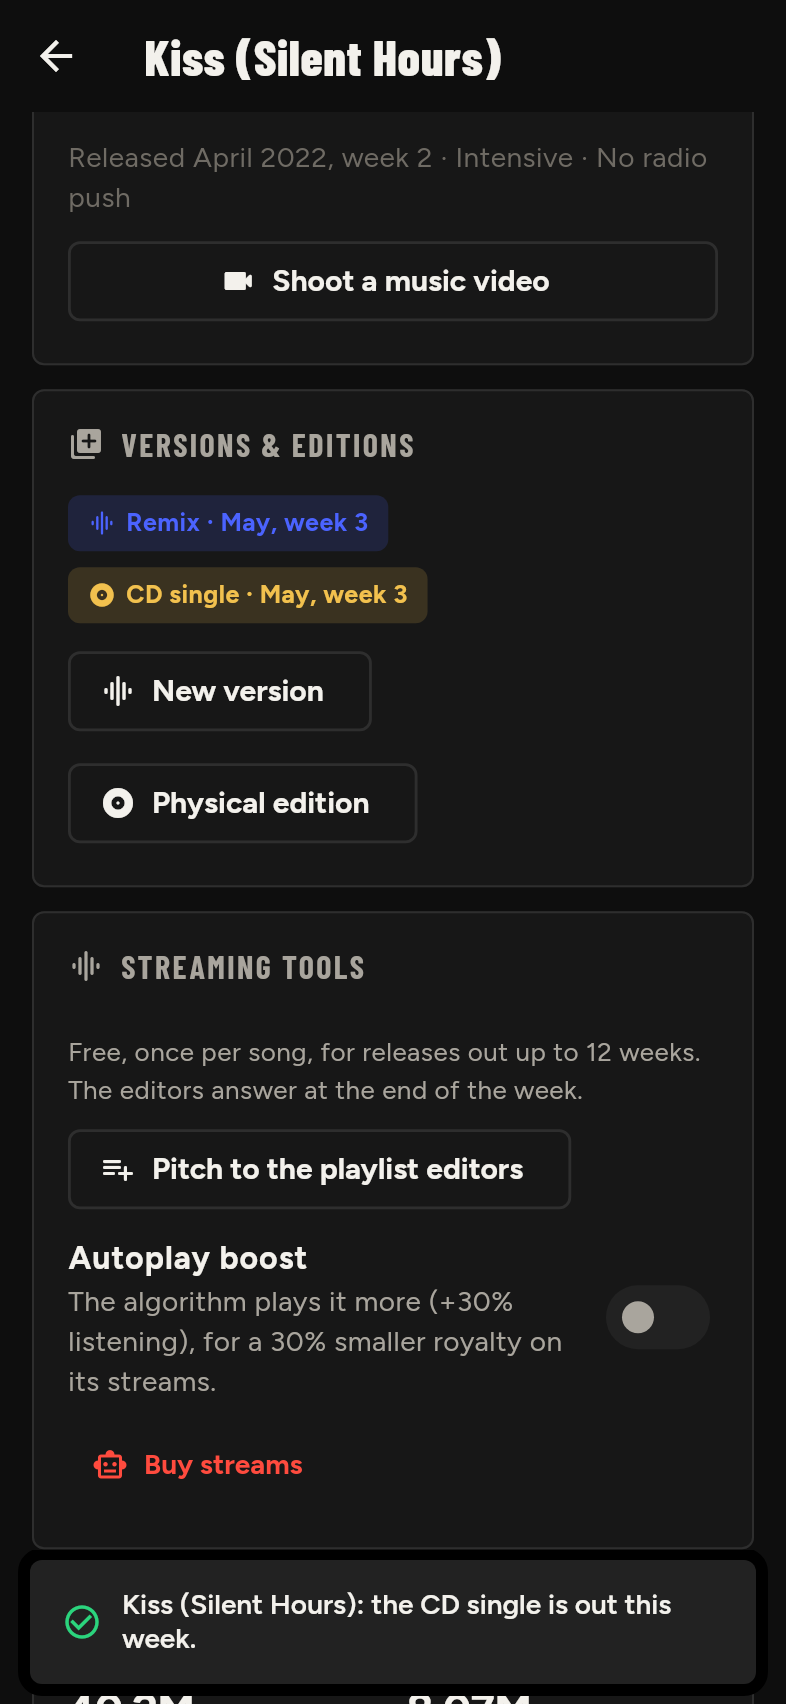
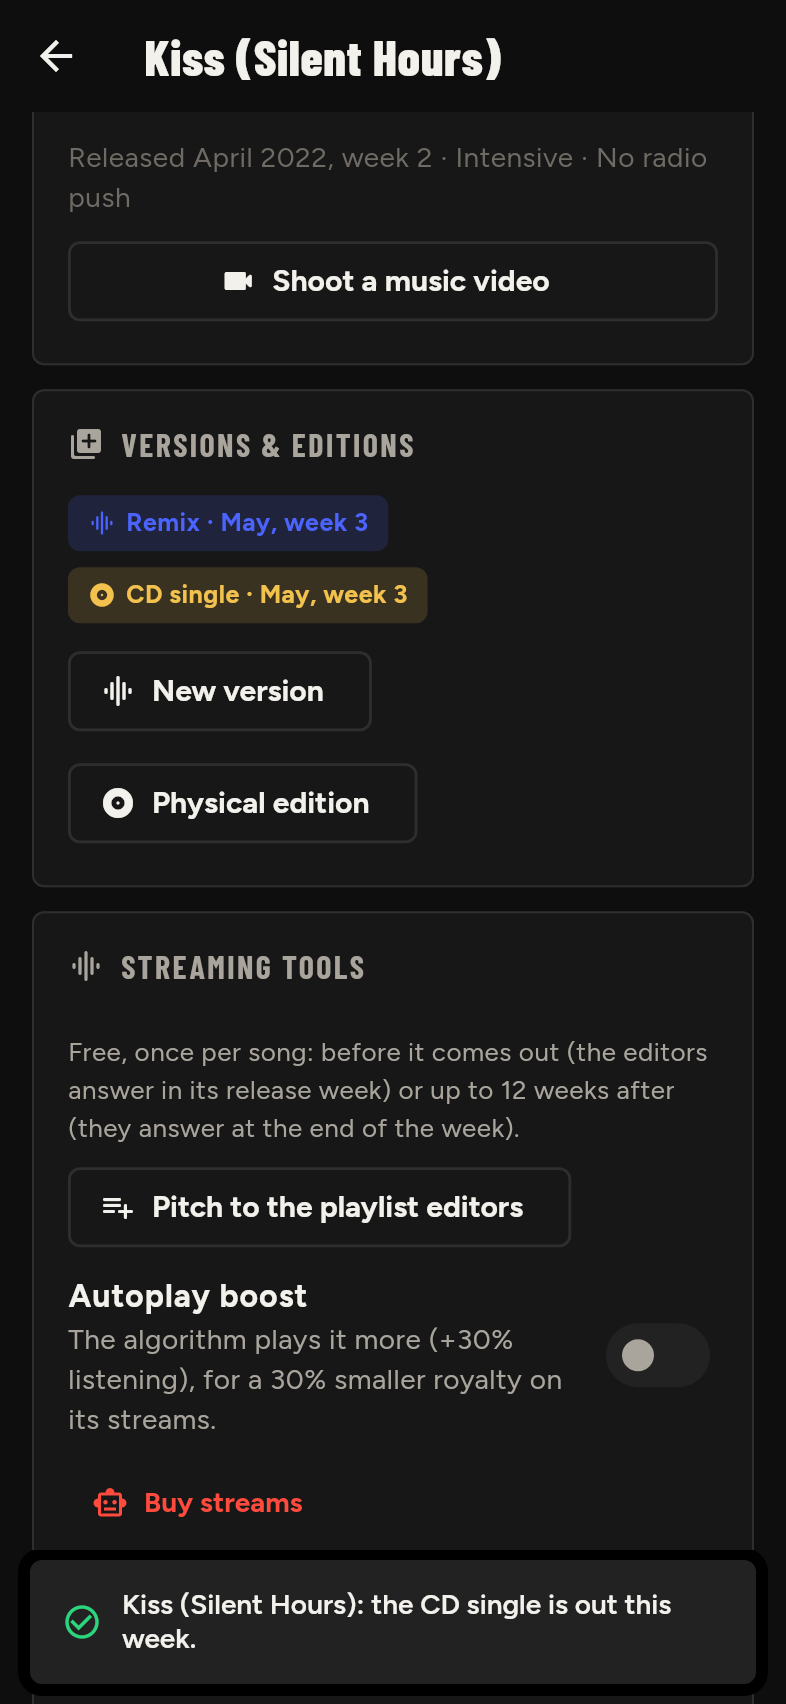
Every main-chart entry is big news; pitch and autoplay before release, also from the single release flow (K101, F67, F68)
Claude-Session: https://claude.ai/code/session_01UqeaYiXbKvrTFgHV44HcjP

diff --git a/app/lib/screens/releases_tab.dart b/app/lib/screens/releases_tab.dart
@@ -474,7 +474,18 @@ Future<bool> releaseSingleFlow(
   final radio = await pickRadioPush(context, career,
       extraCents: career.player.campaignCosts[campaign.index]);
   if (radio == null || !context.mounted) return false;
+  // Playlist pitch and autoplay before it comes out (docs K101).
+  var pitch = false, autoplay = song.autoplay;
+  if (song.canPitch || song.autoplayOpen) {
+    final picked = await pickStreamingOptions(context, song);
+    if (picked == null || !context.mounted) return false;
+    (pitch, autoplay) = picked;
+  }
   try {
+    if (pitch) await career.act(Cmd.pitchSong(song.id));
+    if (autoplay != song.autoplay) {
+      await career.act(Cmd.setAutoplay(song.id, autoplay));
+    }
     if (when.releaseWeek == career.week) {
       await career.act(Cmd.releaseSingle(song.id, campaign, radio));
       if (context.mounted) showInfo(context, l.singleReleased(song.title));
@@ -491,6 +502,59 @@ Future<bool> releaseSingleFlow(
     if (context.mounted) showError(context, e);
     return false;
   }
+}
+
+/// Pitch to the playlist editors and autoplay, chosen while putting a song
+/// out (docs K101). Null when cancelled.
+Future<(bool, bool)?> pickStreamingOptions(
+    BuildContext context, SongView song) {
+  final l = context.l10n;
+  var pitch = song.canPitch, autoplay = song.autoplay || song.autoplayOpen;
+  return showModalBottomSheet<(bool, bool)>(
+    context: context,
+    showDragHandle: true,
+    isScrollControlled: true,
+    builder: (c) => StatefulBuilder(
+      builder: (c, set) => SafeArea(
+        child: Padding(
+          padding: const EdgeInsets.fromLTRB(16, 0, 16, 12),
+          child: Column(
+              mainAxisSize: MainAxisSize.min,
+              crossAxisAlignment: CrossAxisAlignment.stretch,
+              children: [
+                Text(l.streamingSection,
+                    style: Theme.of(c).textTheme.titleLarge),
+                const SizedBox(height: 4),
+                Text(l.streamingStepHint,
+                    style: Theme.of(c).textTheme.bodySmall),
+                if (song.canPitch)
+                  SwitchListTile(
+                    contentPadding: EdgeInsets.zero,
+                    value: pitch,
+                    onChanged: (v) => set(() => pitch = v),
+                    title: Text(l.pitchSong,
+                        style: const TextStyle(fontWeight: FontWeight.w700)),
+                    subtitle: Text(l.pitchHint),
+                  ),
+                if (song.autoplayOpen)
+                  SwitchListTile(
+                    contentPadding: EdgeInsets.zero,
+                    value: autoplay,
+                    onChanged: (v) => set(() => autoplay = v),
+                    title: Text(l.autoplayLabel,
+                        style: const TextStyle(fontWeight: FontWeight.w700)),
+                    subtitle: Text(l.autoplayHint),
+                  ),
+                const SizedBox(height: 8),
+                FilledButton(
+                  onPressed: () => Navigator.pop(c, (pitch, autoplay)),
+                  child: Text(l.continueLabel),
+                ),
+              ]),
+        ),
+      ),
+    ),
+  );
 }
 
 /// Campaign choice with prices (docs/game-design.md §9).

diff --git a/packages/simulation_core/lib/src/streaming_tools.dart b/packages/simulation_core/lib/src/streaming_tools.dart
@@ -71,8 +71,8 @@ abstract final class StreamingTools {
     final year = GameTime.yearOf(w.week);
     // Platforms are good at this (docs K95, F65): a quarter of the weeks
     // even for a few bot streams on a hit, near certain for a fake hit.
-    final chance = math.min(
-        0.95, (0.25 + 0.6 * share) * (year >= 2020 ? 1.3 : 1.0));
+    final chance =
+        math.min(0.95, (0.25 + 0.6 * share) * (year >= 2020 ? 1.3 : 1.0));
     final r = RandomStream.keyed(w.seed, w.week, s.id, RngPurpose.bots);
     if (!r.chance(chance)) return false;
     _caught(w, s);
@@ -115,10 +115,11 @@ abstract final class StreamingTools {
 
   static bool autoplayOpen(World w) => GameTime.yearOf(w.week) >= autoplayYear;
 
-  /// Puts [s] in (or takes it out of) the autoplay programme.
+  /// Puts [s] in (or takes it out of) the autoplay programme; an
+  /// unreleased song starts in it on release (docs K101).
   static void setAutoplay(World w, Song s, bool on) {
     if (on && !autoplayOpen(w)) throw ActionException('No autoplay yet');
-    if (s.releasedWeek < 0) throw ActionException('Not released');
+    if (s.status == SongStatus.scrapped) throw ActionException('Scrapped');
     s.autoplay = on;
     if (on && s.status == SongStatus.dormant) Lifecycle.reactivateSong(w, s);
     w.dirtySongs.add(s.id);
@@ -126,15 +127,24 @@ abstract final class StreamingTools {
 
   // ----------------------------------------------------------------- pitch
 
-  /// Whether [s] can still be pitched.
+  /// Whether [s] can still be pitched: unreleased (the usual way, docs
+  /// K101) or out for up to [pitchWindowWeeks].
   static bool canPitch(World w, Song s) =>
       streamingOpen(w) &&
-      s.releasedWeek >= 0 &&
+      s.status != SongStatus.scrapped &&
       s.pitchWeek < 0 &&
       s.playlistBoost < 0.05 &&
-      w.week - math.max(s.releasedWeek, s.singleWeek) <= pitchWindowWeeks;
+      (s.releasedWeek < 0 ||
+          w.week - math.max(s.releasedWeek, s.singleWeek) <= pitchWindowWeeks);
 
-  /// Pitches [s] to the editors; they answer at the end of the week.
+  /// The week the editors answer [s]'s pitch: the pitch week, or the
+  /// release week for a song pitched before it came out (-1: not yet).
+  static int pitchAnswerWeek(Song s) => s.pitchWeek < 0 || s.releasedWeek < 0
+      ? -1
+      : math.max(s.pitchWeek, s.releasedWeek);
+
+  /// Pitches [s] to the editors; they answer at the end of the week (or
+  /// the week it comes out).
   static void pitch(World w, Song s) {
     if (!canPitch(w, s)) throw ActionException('Cannot pitch');
     s.pitchWeek = w.week;
@@ -160,7 +170,9 @@ abstract final class StreamingTools {
     if (p == null) return;
     for (final id in w.playerSongIds) {
       final s = w.songs[id];
-      if (s.pitchWeek != w.week) continue;
+      if (pitchAnswerWeek(s) != w.week) continue;
+      // The campaign already landed it on a list this week.
+      if (s.playlistWeek == w.week) continue;
       final r = RandomStream.keyed(w.seed, w.week, s.id, RngPurpose.pitch);
       if (!r.chance(pitchChance(w, s))) continue;
       final big = r.chance(0.15 + 0.35 * s.quality / 100);

diff --git a/app/lib/screens/song_detail_screen.dart b/app/lib/screens/song_detail_screen.dart
@@ -454,7 +454,7 @@ class _SongDetailScreenState extends State<SongDetailScreen> {
             ),
           ],
           if (s.isPlayer &&
-              s.releasedWeek >= 0 &&
+              (s.releasedWeek >= 0 || s.inVault) &&
               (s.streamingOpen || s.autoplayOpen)) ...[
             const SizedBox(height: 12),
             Section(
@@ -481,8 +481,14 @@ class _SongDetailScreenState extends State<SongDetailScreen> {
                         Tag(l.pitchLandedTag,
                             icon: Icons.playlist_add_check_rounded,
                             color: AppColors.mint)
-                      else if (s.pitchWeek >= widget.state.week)
-                        Tag(l.pitchPending, icon: Icons.schedule_rounded)
+                      else if (s.pitchWeek >= 0 &&
+                          (s.pitchAnswerWeek < 0 ||
+                              s.pitchAnswerWeek >= widget.state.week))
+                        Tag(
+                            s.pitchAnswerWeek < 0
+                                ? l.pitchPendingRelease
+                                : l.pitchPending,
+                            icon: Icons.schedule_rounded)
                       else if (s.pitchWeek >= 0)
                         Tag(l.pitchDeclinedTag,
                             icon: Icons.playlist_remove_rounded),
@@ -513,6 +519,7 @@ class _SongDetailScreenState extends State<SongDetailScreen> {
                         subtitle: Text(l.autoplayHint),
                       ),
                     if (s.streamingOpen &&
+                        s.releasedWeek >= 0 &&
                         s.botStatus != BotStatus.caught &&
                         s.botWeeksLeft == 0)
                       Align(

diff --git a/app/test/app_flow_test.dart b/app/test/app_flow_test.dart
@@ -62,6 +62,11 @@ void main() {
     expect(_ci('Radio push'), findsWidgets);
     await tester.tap(_ci('No radio push'));
     await tester.pumpAndSettle();
+    // Then pitch and autoplay, in the streaming era (K101).
+    if (_ci('Streaming tools').evaluate().isNotEmpty) {
+      await tester.tap(_ci('Continue').last);
+      await tester.pumpAndSettle();
+    }
     expect(find.textContaining('is out!'), findsOneWidget);
 
     await tester.tap(_ci('Charts'));
@@ -219,6 +224,11 @@ void main() {
     await tester.pumpAndSettle();
     await tester.tap(_ci('No radio push'));
     await tester.pumpAndSettle();
+    // Then pitch and autoplay, in the streaming era (K101).
+    if (_ci('Streaming tools').evaluate().isNotEmpty) {
+      await tester.tap(_ci('Continue').last);
+      await tester.pumpAndSettle();
+    }
     // The single's tile in Releases shows the uploaded cover.
     expect(find.byType(Image), findsWidgets);
 
@@ -294,6 +304,11 @@ void main() {
     await tester.pumpAndSettle();
     await tester.tap(_ci('No radio push'));
     await tester.pumpAndSettle();
+    // Then pitch and autoplay, in the streaming era (K101).
+    if (_ci('Streaming tools').evaluate().isNotEmpty) {
+      await tester.tap(_ci('Continue').last);
+      await tester.pumpAndSettle();
+    }
     expect(
         find.textContaining('is set for January 2024, week 5'), findsOneWidget);
     expect(_ci('Coming up'), findsOneWidget);

diff --git a/packages/game/test/game_test.dart b/packages/game/test/game_test.dart
@@ -366,14 +366,18 @@ void main() {
               premium: true,
               tier: StartTier.risingStar,
               money: StartMoney.millionaire));
+      // Pitched and in autoplay before it comes out (docs K101).
       final song = g.writeSong(budget: BudgetTier.high);
-      expect(() => g.pitchSong(song.id), _code('cannotPitch'));
-      g.releaseSingle(song.id);
       expect(g.song(song.id).canPitch, isTrue);
       g.pitchSong(song.id);
       expect(g.song(song.id).canPitch, isFalse);
+      expect(() => g.pitchSong(song.id), _code('cannotPitch'));
       g.setAutoplay(song.id, true);
       expect(g.song(song.id).autoplay, isTrue);
+      expect(g.song(song.id).pitchAnswerWeek, -1);
+      g.advanceWeek();
+      g.releaseSingle(song.id);
+      expect(g.song(song.id).pitchAnswerWeek, g.week);
       final events = g.advanceWeek().events;
       expect(
           events.any((e) =>

diff --git a/packages/game/lib/src/views.dart b/packages/game/lib/src/views.dart
@@ -289,7 +289,9 @@ class SongView {
         autoplay = s.autoplay,
         canPitch = StreamingTools.canPitch(w, s),
         pitchWeek = s.pitchWeek,
-        pitchLanded = s.pitchWeek >= 0 && s.playlistWeek == s.pitchWeek,
+        pitchAnswerWeek = StreamingTools.pitchAnswerWeek(s),
+        pitchLanded = StreamingTools.pitchAnswerWeek(s) >= 0 &&
+            s.playlistWeek == StreamingTools.pitchAnswerWeek(s),
         streamingOpen = StreamingTools.streamingOpen(w),
         autoplayOpen = StreamingTools.autoplayOpen(w),
         variants = List.unmodifiable(s.variants),
@@ -337,6 +339,9 @@ class SongView {
   /// Pitch to the playlist editors (docs K97).
   final bool canPitch;
   final int pitchWeek;
+
+  /// Week the editors answer (-1 while the song is unreleased).
+  final int pitchAnswerWeek;
   final bool pitchLanded;
 
   /// The streaming platform and its autoplay exist this year.

diff --git a/packages/game/lib/src/game_session.dart b/packages/game/lib/src/game_session.dart
@@ -1238,9 +1238,6 @@ class GameSession {
     if (on && !StreamingTools.autoplayOpen(world)) {
       throw GameException('noStreaming', 'No autoplay yet');
     }
-    if (s.releasedWeek < 0) {
-      throw GameException('notReleased', 'Only released songs');
-    }
     StreamingTools.setAutoplay(world, s, on);
     _saveNow();
   }
@@ -1776,7 +1773,8 @@ class GameSession {
     }
     for (final id in w.playerSongIds) {
       final s = w.songs[id];
-      if (s.pitchWeek == r.week && s.playlistWeek != r.week) {
+      if (StreamingTools.pitchAnswerWeek(s) == r.week &&
+          s.playlistWeek != r.week) {
         events.add(PitchDeclined(id));
       }
     }

diff --git a/packages/game/lib/src/events.dart b/packages/game/lib/src/events.dart
@@ -26,8 +26,11 @@ class ChartDebut extends GameEvent {
   final EntityKind kind;
   final int entityId;
   final int position;
+
+  /// Every entry on a main chart is news the player hears about (F67: a
+  /// #45 debut on the global chart went by unnoticed).
   @override
-  bool get isMajor => position <= 10;
+  bool get isMajor => true;
 }
 
 /// A player release reached #1 ([weeksAtNo1] counts this week).

diff --git a/tools/l10n/gen_arb.py b/tools/l10n/gen_arb.py
@@ -962,7 +962,7 @@ k('chirperNoPosts','You haven’t posted yet.','Henüz bir şey paylaşmadın.')
 # streaming tools (docs K95-K97)
 k('streamingSection','Streaming tools','Streaming araçları')
 k('pitchSong','Pitch to the playlist editors','Playlist editörlerine öner')
-k('pitchHint','Free, once per song, for releases out up to 12 weeks. The editors answer at the end of the week.','Ücretsiz, şarkı başına bir kez, son 12 haftada çıkanlar için. Editörler hafta sonunda cevap verir.')
+k('pitchHint','Free, once per song: before it comes out (the editors answer in its release week) or up to 12 weeks after (they answer at the end of the week).','Ücretsiz, şarkı başına bir kez: çıkmadan önce (editörler çıktığı hafta cevap verir) ya da çıktıktan sonra 12 hafta içinde (hafta sonunda cevap verir).')
 k('pitchPending','Pitched: the editors answer at the end of the week','Önerildi: editörler hafta sonunda cevap verecek')
 k('pitchLandedTag','Pitch landed a playlist','Öneri playlist’e girdi')
 k('pitchDeclinedTag','The editors passed','Editörler geçti')
@@ -994,6 +994,9 @@ k('removalRemoved','−{count} streams','−{count} stream', count='String')
 k('removalRefund','Royalties paid back: {money}','Geri ödenen telif: {money}', money='String')
 k('removalFilter','The charts count it at half for 4 weeks','Listeler şarkıyı 4 hafta yarım sayacak')
 k('removalFans','Fans are talking about it on social media','Hayranlar sosyal medyada bunu konuşuyor')
+
+k('streamingStepHint','Pitch it to the playlist editors and choose autoplay before it comes out.','Çıkmadan önce playlist editörlerine öner ve autoplay’i seç.')
+k('pitchPendingRelease','Pitched: the editors answer when it comes out','Önerildi: editörler çıktığında cevap verecek')
 
 def write(lang, idx):
     out = {'@@locale': lang}

diff --git a/docs/README.md b/docs/README.md
@@ -127,6 +127,7 @@ Bu kararlar alınmıştır; değiştirmek için bilinçli bir revizyon gerekir.
 | K98 | **Paylaşımlar enerji harcamaz (Emir: "X postları enerji yemesin, şarkı yazmak zaten yeterince yiyor"):** K93'teki 5/10 enerji maliyeti kalktı; sınır yalnızca haftada 3 paylaşım ve aynı haftadaki her yeni paylaşımın etkisinin ×0,7 olması. |
 | K99 | **Kariyer ünitesinde albümde olmayan şarkılar da sayılır (Emir: "albümde olmayan şarkıların streamleri de album unitste gözükmeli"):** Kariyer kartındaki ve bölge tablosundaki sütun "Toplam ünite" oldu: albüm üniteleri + hiçbir albümde olmayan şarkıların stream'leri (1.500 = 1 ünite; stream'lerin ünite sayıldığı 2015'ten itibaren) ve indirmeleri/CD single'ları (10 = 1 ünite). Albüm listeleri, sertifikalar ve yıl yıl tablosu albüm ünitesi olarak kalır. |
 | K100 | **Stream silmeleri görünür ve sık (Emir: "removal yaşanınca bildirim gelsin, haberlere çıksın, removal ihtimali çok yüksek olsun"):** Haftalık yakalanma ihtimali (%25 + %60 × sahte stream payı) × (2020'den sonra 1,3), en fazla %95 (önce %3 + %40 ×): gerçek bir hite küçük paket bile dört haftada ~%70, sahte bir hit neredeyse kesin yakalanır. Yakalanınca hafta sonunda tam ekran kırmızı uyarı ("STREAM'LER SİLİNDİ": şarkı, −silinen stream, geri ödenen telif, 4 hafta liste filtresi), sonra haberlerde ve Chirper'da hayran tepkileri. Rakiplerin silmeleri artık sektör haberi değil, oyuncunun haberlerinde görünür; hayranların da o rakip şarkı hakkında yorum yapar. |
+| K101 | **Liste girişleri hep büyük haber; playlist önerisi ve autoplay çıkıştan önce (Emir: "global top songs'a debut bildirimi neden gelmedi"; "autoplay, playlist şeyleri şarkıyı yayınlamadan önce yapılabilsin"):** Ana listelere (ABD/İngiltere/global, şarkı ve albüm) her giriş artık büyük haber: hafta sonu haber penceresinde görünür, hafta atlamayı durdurur (önce sadece ilk 10 girişleri öyleydi, #45 global girişi sessiz geçiyordu). Playlist önerisi çıkmamış şarkılar için de yapılır; editörler şarkının çıktığı hafta cevap verir (o hafta kampanya zaten playlist getirdiyse cevap beklenmez). Autoplay çıkmamış şarkıda açılırsa şarkı ilk günden programda başlar. Single çıkarma akışında kampanya ve radyodan sonra "Streaming araçları" adımı: öneri ve autoplay anahtarları (önceden seçili). Şarkı sayfasındaki bölüm stüdyodaki şarkılarda da görünür (bot satın alma sadece çıkmış şarkılarda). |
 | K82 | **Her platformda kendi profilin (F48):** Platform ekranlarının üstünde "Senin sayfan": fotoğraf (Streamify'da Streamify fotoğrafı), ad, mavi tik (fame %10+ veya 100K+ takipçi), takipçi sayısı (ViewTube'da abone), streaming uygulamalarında aylık dinleyici, bu haftaki rakam ve en büyük şarkın. Takipçiler sadık hayran ve sıradan dinleyiciden hesaplanır, platform açıldıktan sonra 4 yılda tam oturur: Streamify %85 hayran + %5 dinleyici; Fruit Music %25 + %2 (Kuzey Amerika'da daha çok); ViewTube %60 + %6 (müzik videosu sayısıyla ×0,8–1,2); NoiseCloud %10 + %0,8; TikTak %25 + %6 (karizmayla ×0,6–1,4). Fruit Tunes indirme mağazası, takipçisi yok. Streamify sanatçı sayfasındaki takipçi sayısı da aynı kuraldan geliyor (rakipler dahil). |
 | K23 | ChatGPT planındaki ekranlar, rekorlar, kampanyalar, finans, bildirimler, ödüller, Kolay mod ve 10 performans kuralı dokümanlara taşındı. |
 

diff --git a/docs/feedback.md b/docs/feedback.md
@@ -129,6 +129,8 @@ Kaynak: **E** = Emir'in notu, **T** = Claude'un test oyunu. Öncelik: **1** = ö
 | F64 | **Albümde olmayan şarkıların stream'leri de kariyerdeki albüm ünitesinde görünsün; albüm yokken 0 olmasın** (Emir). | ✅ K99: "Toplam ünite" = albüm ünitesi + albümsüz şarkıların stream/indirme ünitesi. |
 | F65 | **Stream silinince bildirim gelsin, haberlere çıksın, bir yerlerde görünsün; silinme ihtimali çok yüksek olsun** (Emir). | ✅ K100: tam ekran uyarı, haber, Chirper; rakip silmeleri de haberde; yakalanma çok daha olası. |
 | F66 | **Marka anlaşmaları ve kampanyalar daha detaylı olsun** (Emir). | Not alındı; tasarım soruldu. |
+| F67 | **Yeni şarkımın global listeye girişi için bildirim gelmedi** (Emir). | ✅ K101: ana listelere her giriş büyük haber. |
+| F68 | **Autoplay ve playlist önerisi şarkı yayınlanmadan önce yapılabilsin** (Emir). | ✅ K101: çıkmamış şarkıda öneri ve autoplay; single akışında Streaming adımı. |
 
 ## Test oyunu 3 — Gerçek kariyer tekrarı (JT, Gerçekçi mod)
 
